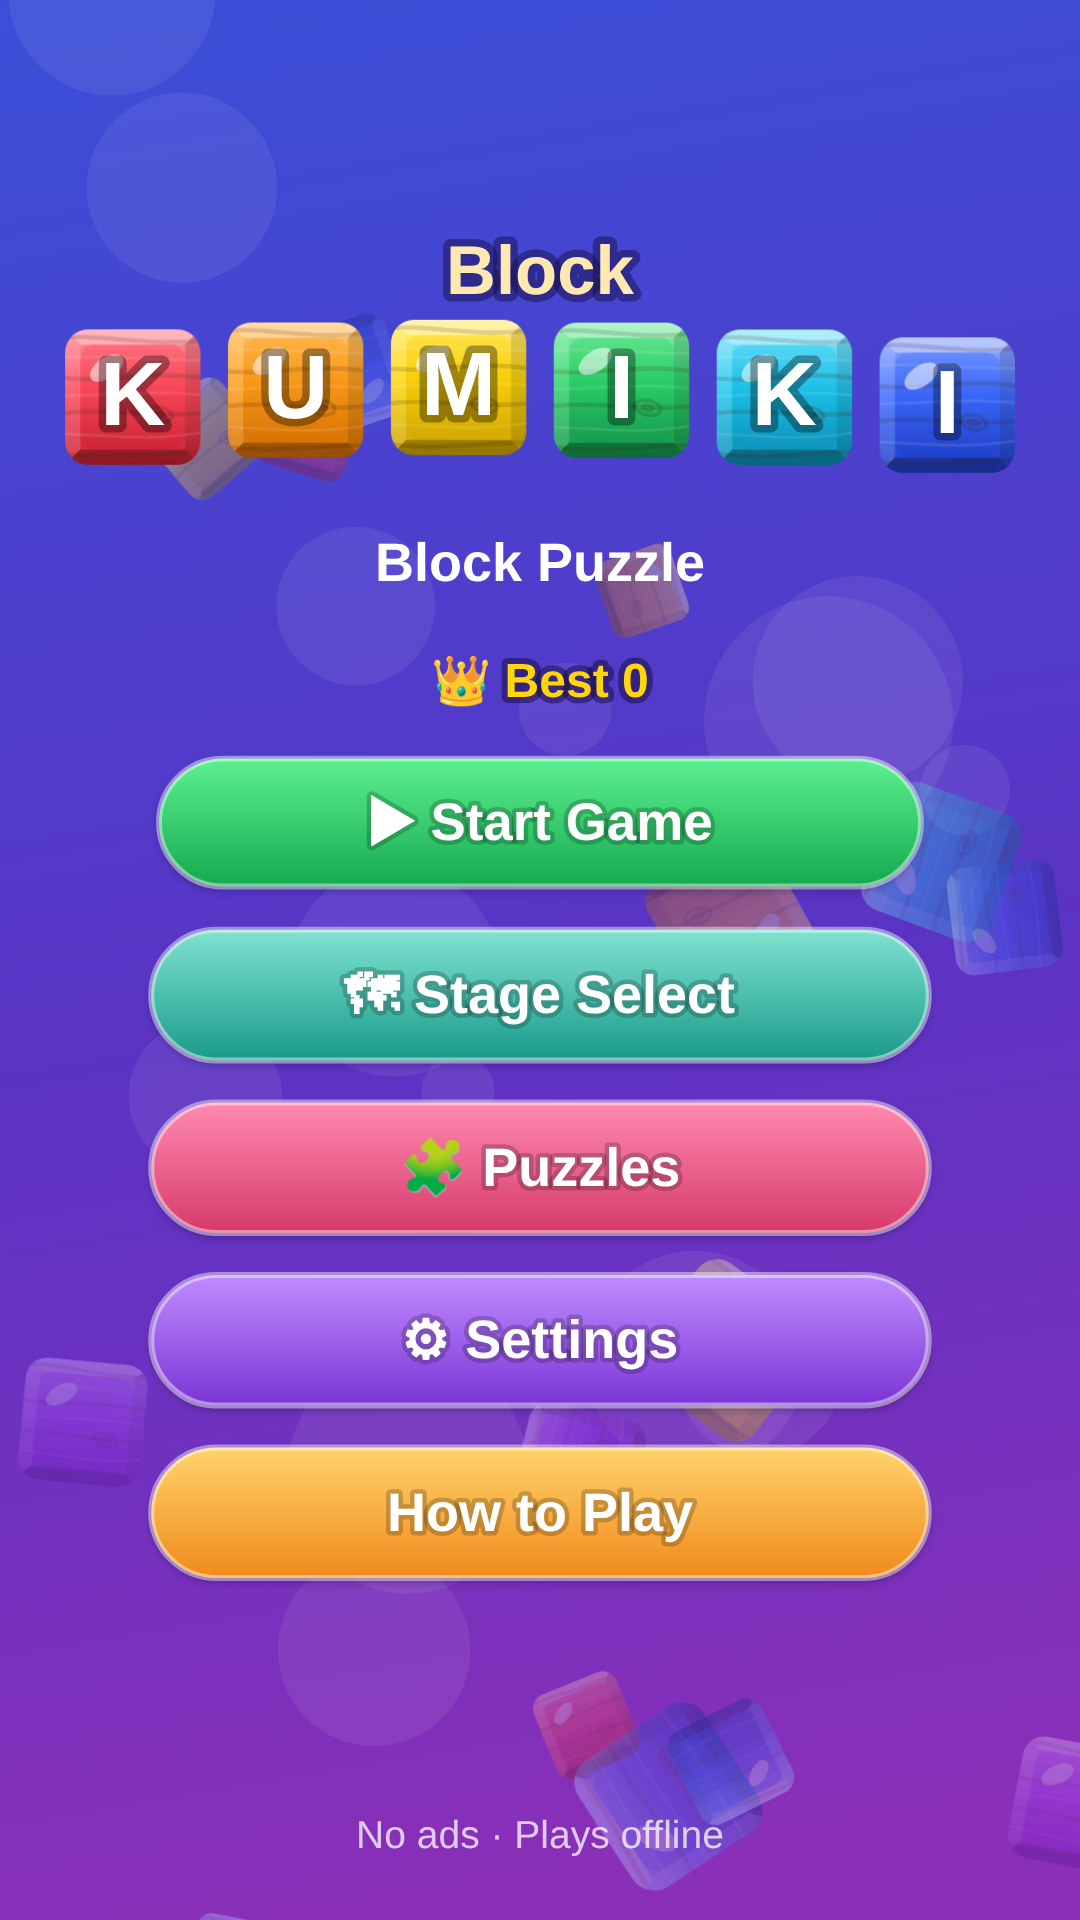
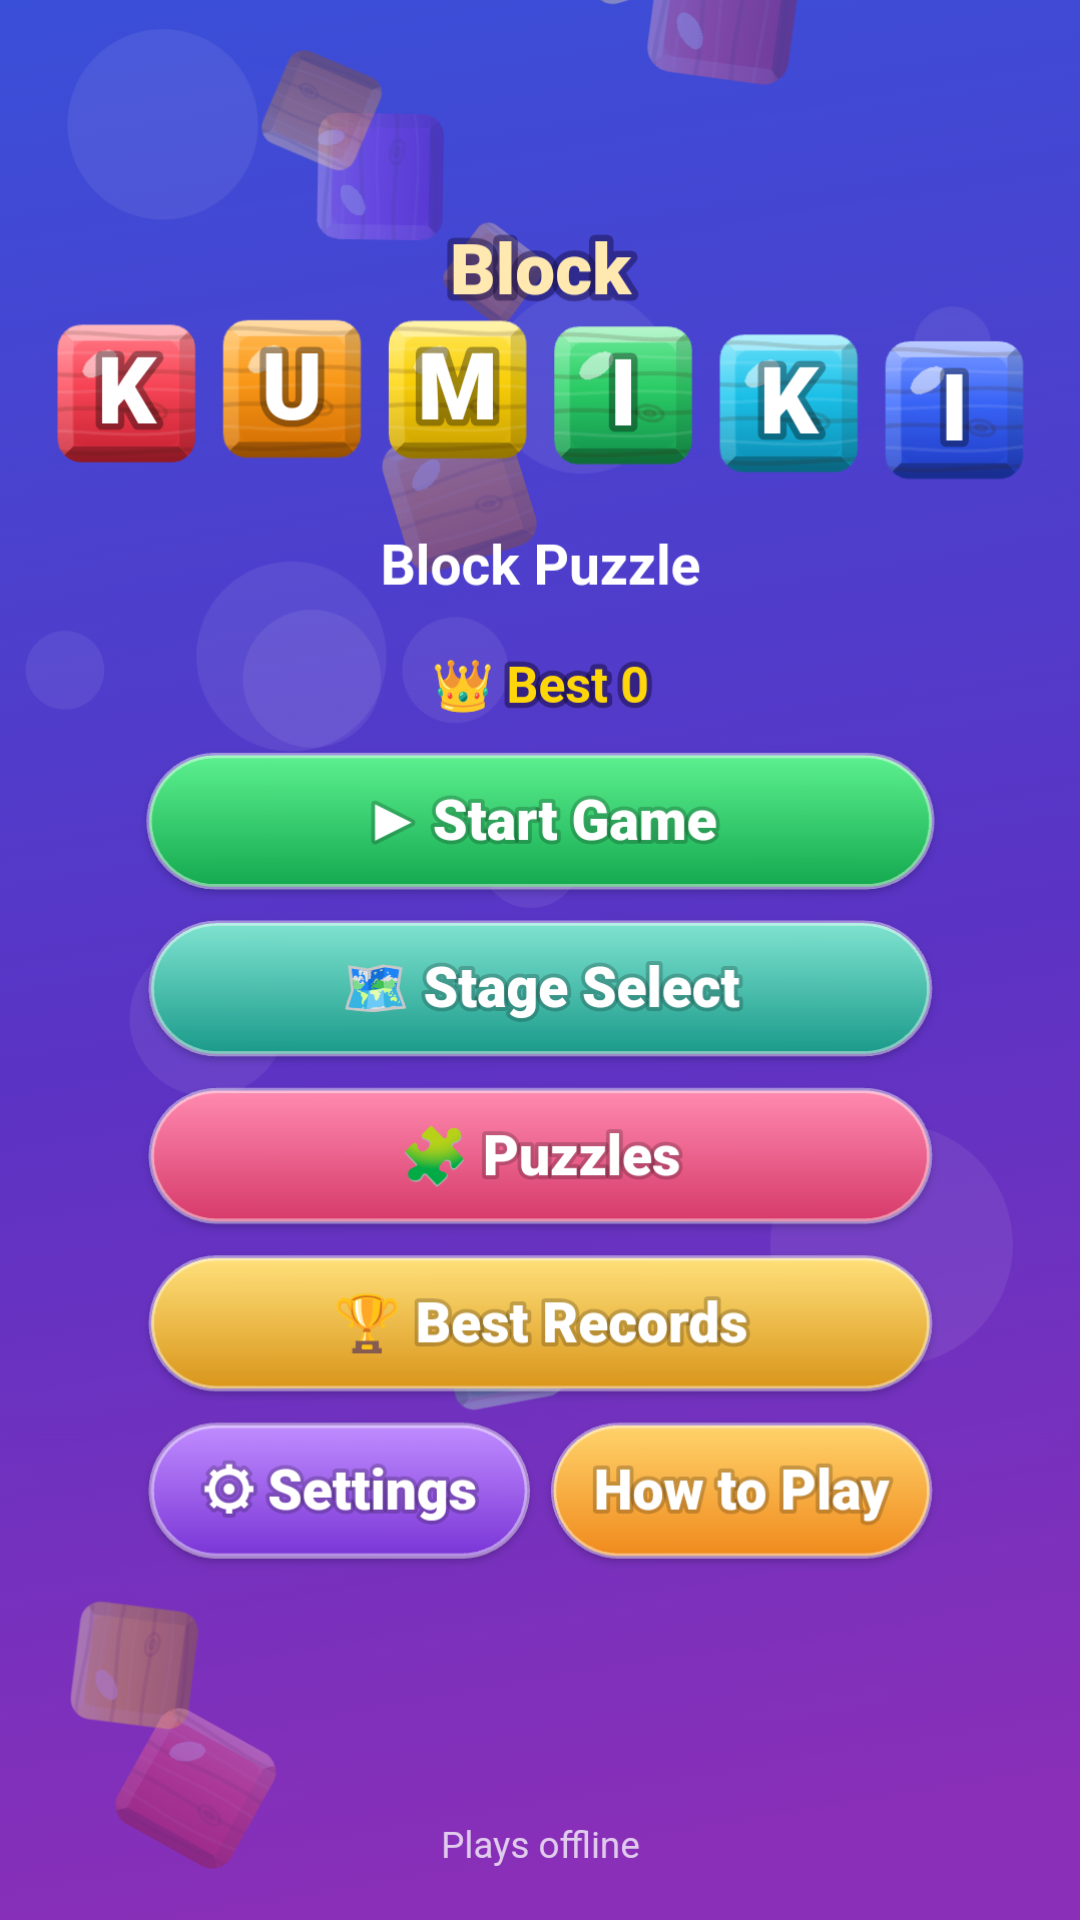
Block KUMIKI の画像と連絡先を更新
- タイトル画面の画像を差し替えた（古い画像に「広告なし」と書かれていたため）
- 詰め組木の画像を、広告でヒントを出す案内がある画面に差し替えた
- 英語版のフィーチャーグラフィックを追加し、英語の欄に表示した
- 連絡先を dngg.studio@gmail.com に変更した（トップ、紹介ページ、プライバシーポリシー）
- プライバシーポリシーの改定日を 2026年11月7日に更新した

diff --git a/kumiki/privacy.html b/kumiki/privacy.html
@@ -9,7 +9,7 @@
 <body>
 <p><a href="./">Block KUMIKI</a></p>
 <h1>Block KUMIKI プライバシーポリシー</h1>
-<p>制定日：2026年11月2日／改定日：2026年11月5日</p>
+<p>制定日：2026年11月2日／改定日：2026年11月7日</p>
 <p>本アプリ「Block KUMIKI」（以下「本アプリ」）は、運営者が利用者の氏名やメールアドレスなどの個人情報を集めることはありません。広告の配信には Google AdMob を使用しており、次の情報が Google に送信される場合があります。</p>
 <h2>1. 広告のために送信される情報</h2>
 <p>本アプリは広告を表示するためにインターネットに接続します。Google AdMob は、広告 ID などの端末識別子、IP アドレス、広告の表示や操作の情報などを、広告の配信、測定、不正防止のために収集する場合があります。Google による情報の扱いは、<a href="https://policies.google.com/technologies/partner-sites">Google のポリシー</a>をご覧ください。</p>
@@ -23,12 +23,12 @@
 <h2>5. 改定</h2>
 <p>本ポリシーを変更する場合は、このページで告知します。</p>
 <h2>6. お問い合わせ</h2>
-<p><a href="mailto:oyakudati.tools@gmail.com">oyakudati.tools@gmail.com</a></p>
+<p><a href="mailto:dngg.studio@gmail.com">dngg.studio@gmail.com</a></p>
 
 <hr>
 <h1 lang="en">Block KUMIKI Privacy Policy</h1>
 <div lang="en">
-<p>Effective: November 2, 2026. Updated: November 5, 2026</p>
+<p>Effective: November 2, 2026. Updated: November 7, 2026</p>
 <p>The operator of Block KUMIKI ("the app") does not collect personal information such as your name or email address. The app uses Google AdMob to show ads, and the information below may be sent to Google.</p>
 <p>The app connects to the internet to show ads. Google AdMob may collect device identifiers such as the advertising ID, your IP address, and information about how ads are shown and used, for ad delivery, measurement and fraud prevention. See <a href="https://policies.google.com/technologies/partner-sites">Google's policy</a> for how Google uses this information.</p>
 <p>Where consent is required, the app asks for it at launch. You can change your choice under "Ad privacy settings" in Settings. You may be able to delete the advertising ID in your device settings.</p>
@@ -36,7 +36,7 @@
 <p>The app uses the vibration permission only to vibrate the device during play. You can turn vibration off in Settings.</p>
 <p>The operator does not provide your information to third parties, other than the sending to Google AdMob described above.</p>
 <p>If this policy changes, the change will be announced on this page.</p>
-<p>Contact: <a href="mailto:oyakudati.tools@gmail.com">oyakudati.tools@gmail.com</a></p>
+<p>Contact: <a href="mailto:dngg.studio@gmail.com">dngg.studio@gmail.com</a></p>
 </div>
 </body>
 </html>

diff --git a/kumiki/index.html b/kumiki/index.html
@@ -63,10 +63,11 @@
 <p><a href="privacy.html">プライバシーポリシーを読む</a></p>
 
 <h2>お問い合わせ</h2>
-<p><a href="mailto:oyakudati.tools@gmail.com">oyakudati.tools@gmail.com</a></p>
+<p><a href="mailto:dngg.studio@gmail.com">dngg.studio@gmail.com</a></p>
 
 <hr>
 <div lang="en">
+<img class="feature" src="images/en/featureGraphic.png" width="1024" height="500" loading="lazy" alt="Block KUMIKI">
 <h1>Block KUMIKI</h1>
 <p>Place, line up and clear! A warm wooden block puzzle.</p>
 <p>Coming soon to Google Play.</p>
@@ -111,7 +112,7 @@ Clear many lines at once or keep a combo going for big points!</p>
 <p><a href="privacy.html">Read the privacy policy</a></p>
 
 <h2>Contact</h2>
-<p><a href="mailto:oyakudati.tools@gmail.com">oyakudati.tools@gmail.com</a></p>
+<p><a href="mailto:dngg.studio@gmail.com">dngg.studio@gmail.com</a></p>
 </div>
 </body>
 </html>

diff --git a/index.html b/index.html
@@ -12,6 +12,6 @@
     <li><a href="kumiki/">Block KUMIKI</a>（<a href="kumiki/privacy.html">プライバシーポリシー</a>）</li>
   </ul>
   <h2>お問い合わせ</h2>
-  <p><a href="mailto:oyakudati.tools@gmail.com">oyakudati.tools@gmail.com</a></p>
+  <p><a href="mailto:dngg.studio@gmail.com">dngg.studio@gmail.com</a></p>
 </body>
 </html>
